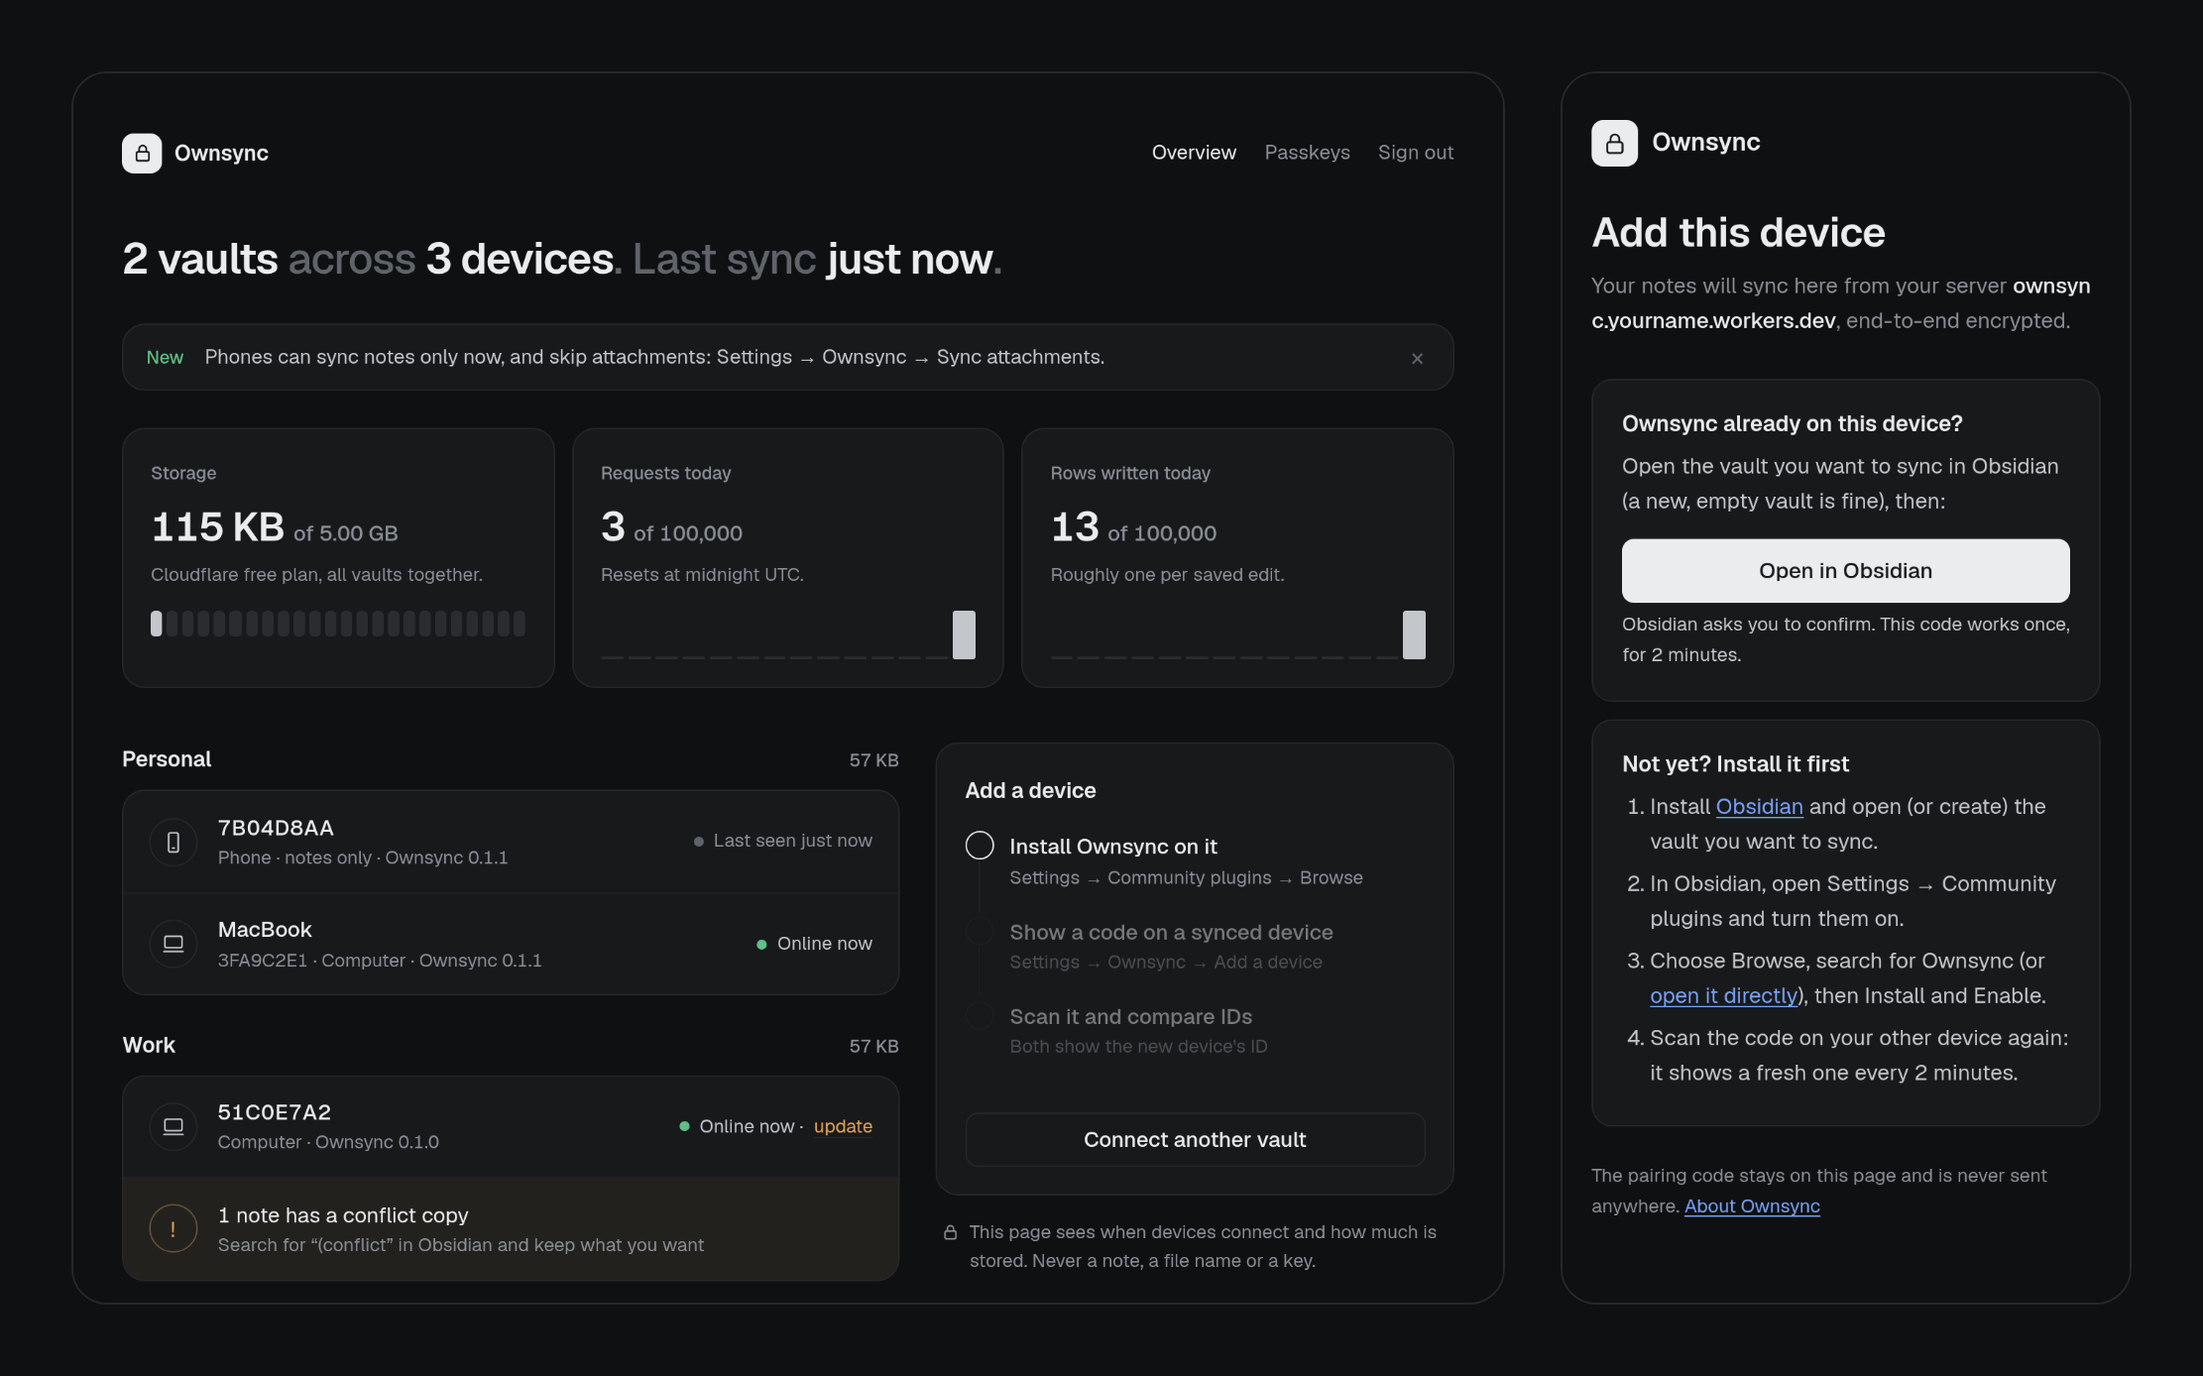
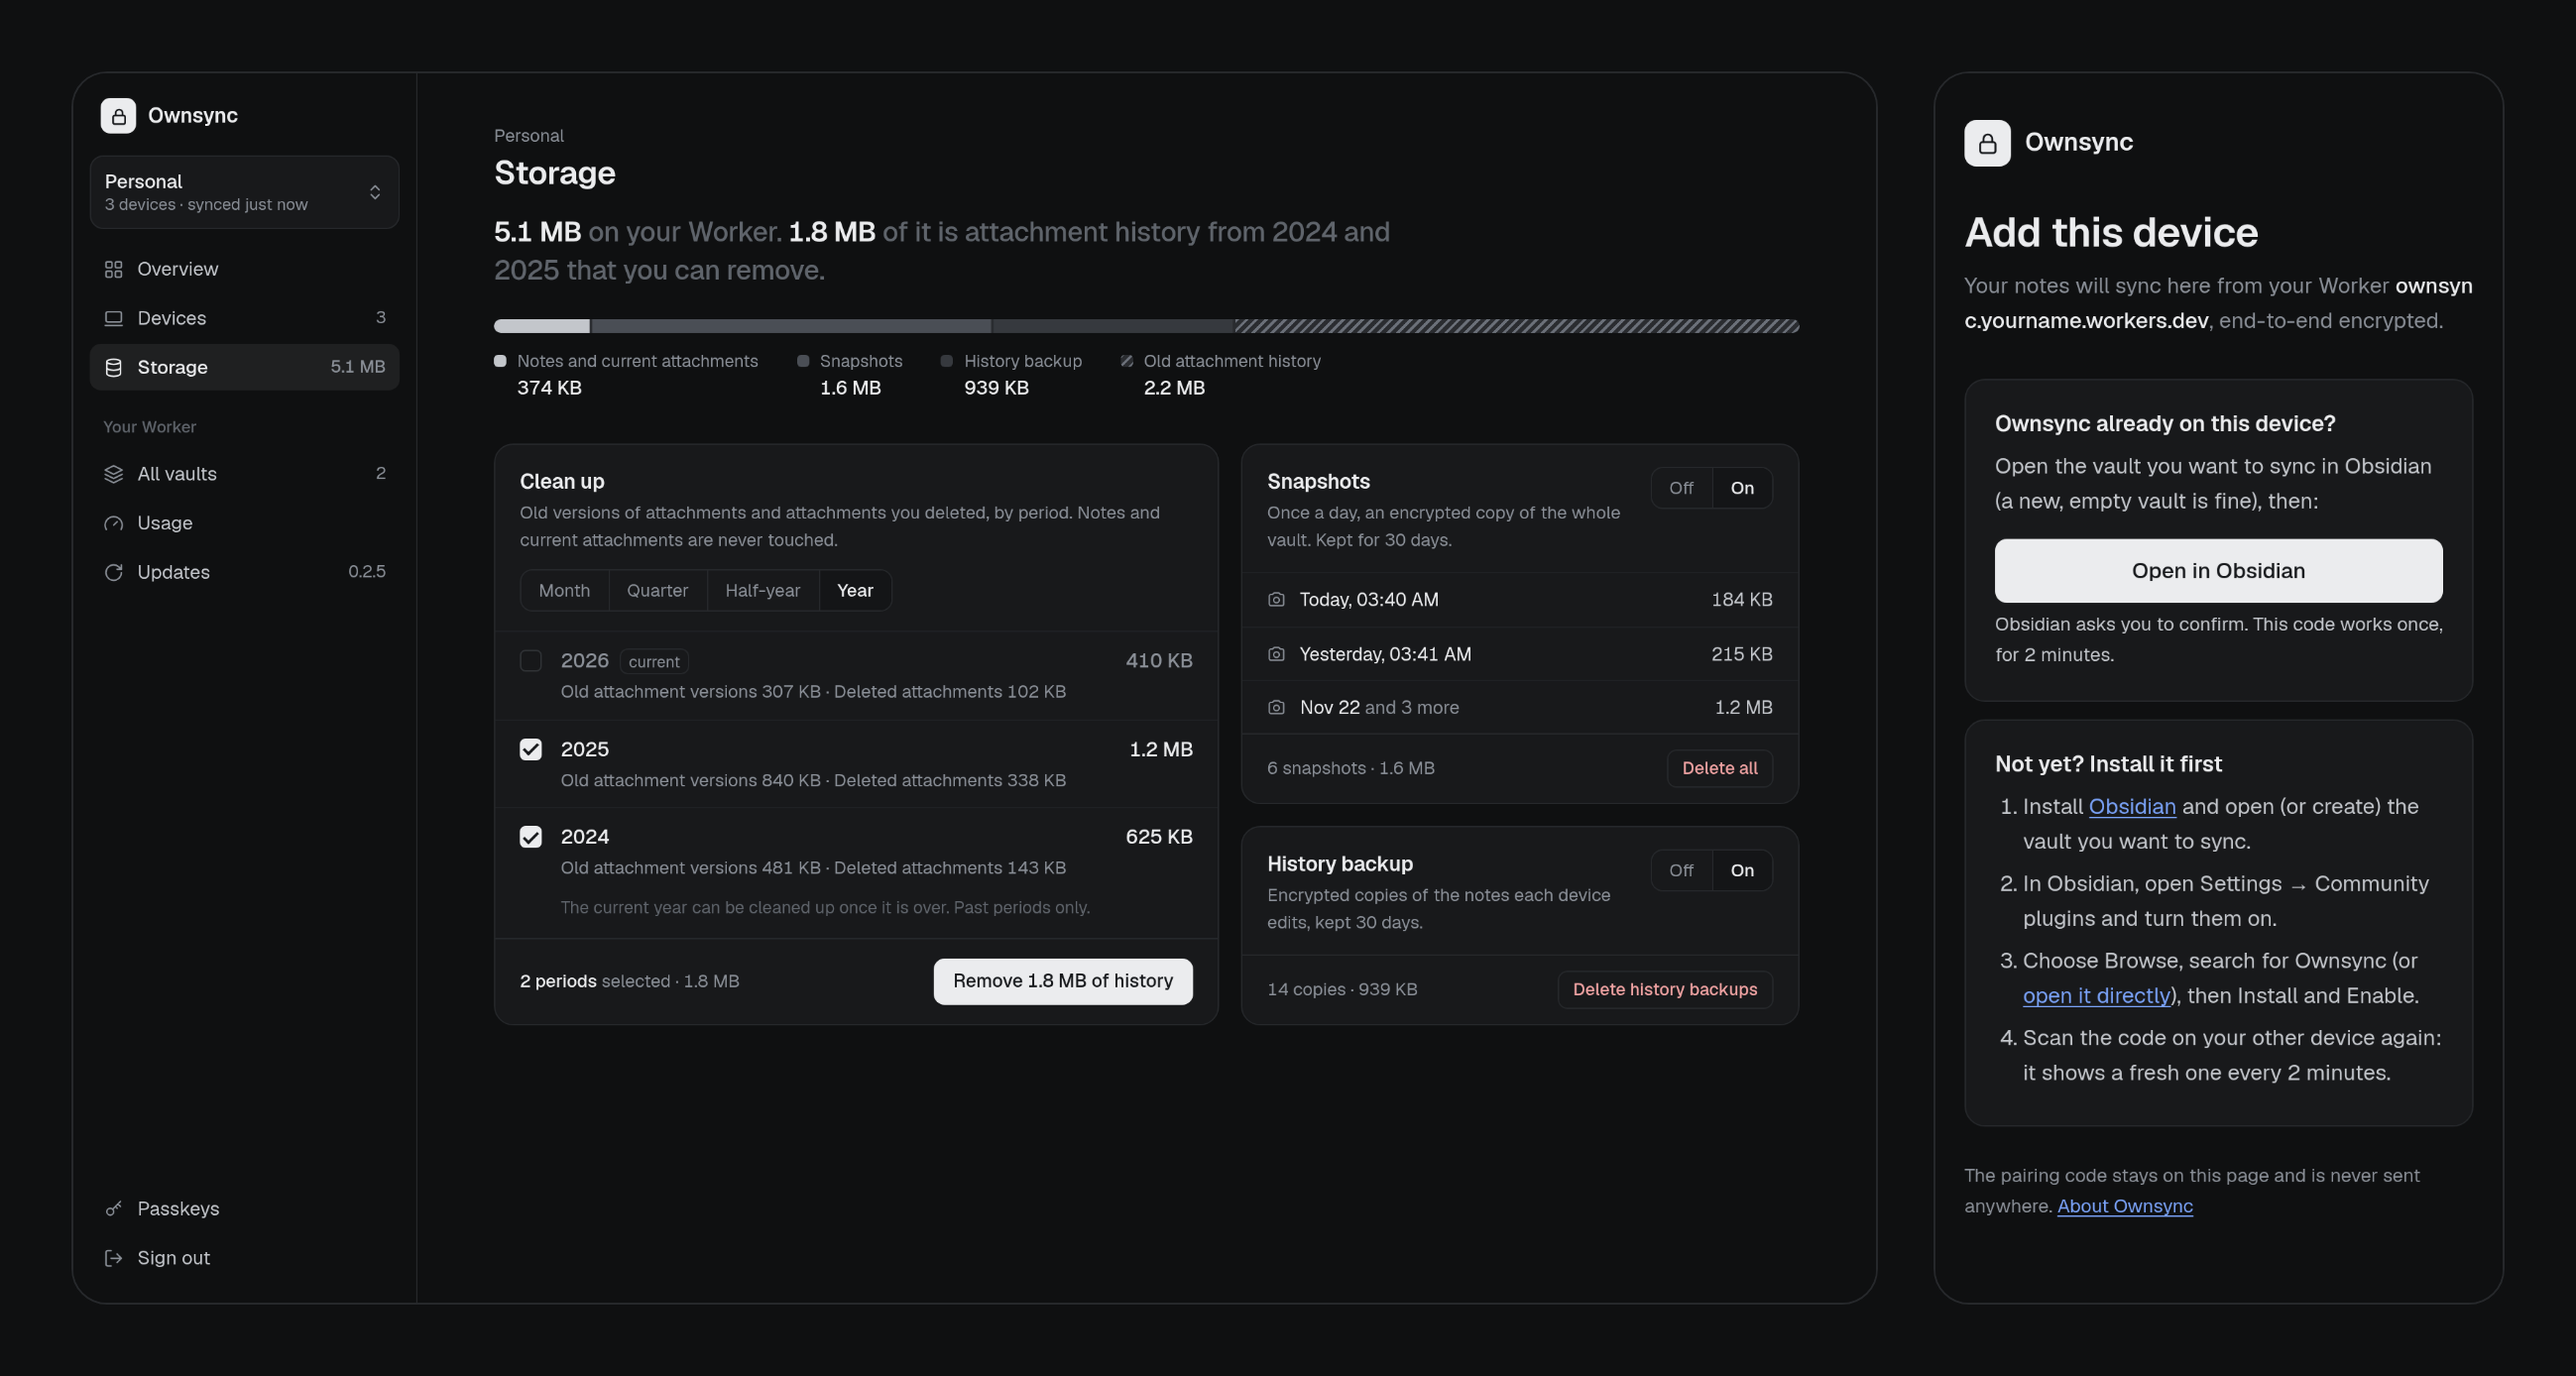
README and setup guide: screenshots of the new dashboard (Storage beside the add-device page; a vault's overview)

diff --git a/docs/setup.md b/docs/setup.md
@@ -50,12 +50,12 @@ Each code works once, for 2 minutes, and a fresh one appears while the screen is
 
 ## Your dashboard
 
-Your Worker's address is your dashboard. It opens with a one-line summary, then how much of Cloudflare's free plan you use over the last two weeks, and each vault's devices by the names you gave them in Obsidian (Settings → Ownsync → Device name), or their random ID until you do; click a name on the dashboard to rename it there: phone or computer, notes only or not, when each was last online, which version it runs, and any conflict copies. From Obsidian: Settings → Ownsync → **Open dashboard**.
+Your Worker's address is your dashboard. Pick a vault at the top of the sidebar. **Overview** sums it up in one line and lists its devices by the names you gave them in Obsidian (Settings → Ownsync → Device name), or their random ID until you do: phone or computer, when each was last online, which version it runs, and any conflict copies. **Devices** lets you rename them and add one. **Storage** shows what the vault takes up on your Worker, turns snapshots and history backup on or off, and cleans up old attachment history. Under **Your Worker**: all vaults, how much of Cloudflare's free plan you use, updates and passkeys. From Obsidian: Settings → Ownsync → **Open dashboard**.
 
 <p>
 <picture>
 <source media="(prefers-color-scheme: dark)" srcset="images/dashboard-dark.png">
-<img src="images/dashboard.png" width="560" alt="The dashboard">
+<img src="images/dashboard.png" width="660" alt="The dashboard: a vault's overview">
 </picture>
 </p>
 

diff --git a/README.md b/README.md
@@ -4,7 +4,7 @@ Real-time sync for Obsidian, end-to-end encrypted, through your own Cloudflare a
 
 <picture>
 <source media="(prefers-color-scheme: dark)" srcset="https://raw.githubusercontent.com/humanglitch191/ownsync/main/docs/images/hero-dark.png">
-<img src="https://raw.githubusercontent.com/humanglitch191/ownsync/main/docs/images/hero.png" alt="The Ownsync dashboard, and the page a phone opens to join">
+<img src="https://raw.githubusercontent.com/humanglitch191/ownsync/main/docs/images/hero.png" alt="The Ownsync dashboard's Storage page, and the page a phone opens to join">
 </picture>
 
 I wanted my notes on my laptop and my phone, in sync as I type, without handing them to anyone. Ownsync runs on a free Cloudflare Worker in your own account. Every edit is encrypted on your device before it leaves, so your Worker only ever holds scrambled data. It couldn't read a note if it tried.
